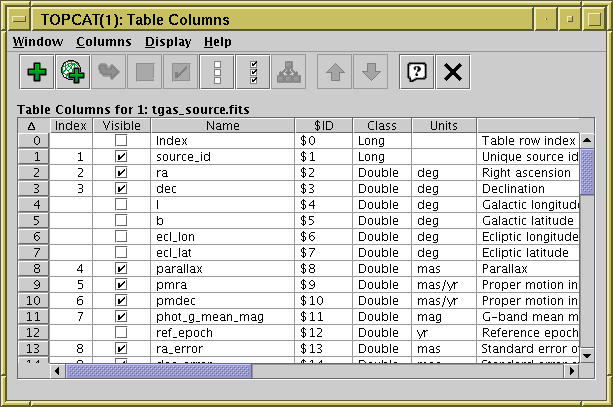
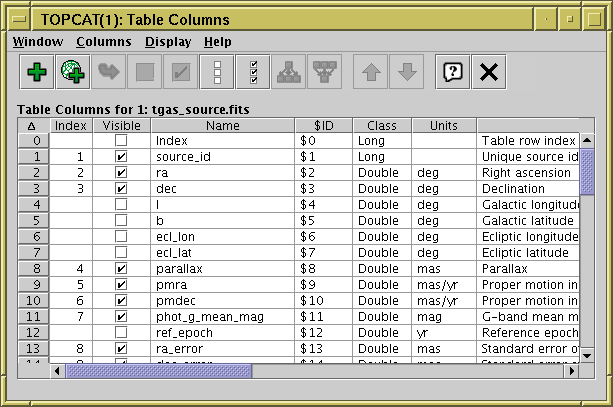
topcat: add collapse columns action to Columns window
New action in ColumnInfoWindow that allows the user to select
multiple scalar-valued columns and turn them into a single
array-valued column.

Changed region(s): [[0.6509, 0.1179, 0.8369, 0.2359], [0.4959, 0.1474, 0.5579, 0.2064], [0.5889, 0.1474, 0.6199, 0.2064]]

diff --git a/topcat/src/main/uk/ac/starlink/topcat/ColumnInfoWindow.java b/topcat/src/main/uk/ac/starlink/topcat/ColumnInfoWindow.java
@@ -7,10 +7,12 @@ import java.awt.Point;
 import java.awt.event.ActionEvent;
 import java.awt.event.KeyEvent;
 import java.awt.event.MouseEvent;
+import java.io.IOException;
 import java.util.ArrayList;
 import java.util.Arrays;
 import java.util.List;
 import java.util.logging.Logger;
+import java.util.stream.Collectors;
 import javax.swing.AbstractAction;
 import javax.swing.Action;
 import javax.swing.DefaultListSelectionModel;
@@ -68,6 +70,7 @@ public class ColumnInfoWindow extends AuxWindow {
     private final Action sortupAct;
     private final Action sortdownAct;
     private final Action explodecolAct;
+    private final Action collapsecolsAct;
     private final ColumnInfo indexColumnInfo;
     private final JTable jtab;
     private final MetaColumnTableModel metaTableModel;
@@ -554,6 +557,11 @@ public class ColumnInfoWindow extends AuxWindow {
                                               ResourceIcon.EXPLODE,
                                               "Replace N-element array column "
                                               + "with N scalar columns" );
+        collapsecolsAct = new ColumnInfoAction( "Collapse Columns to Array",
+                                                ResourceIcon.COLLAPSE,
+                                                "Add new array column "
+                                              + "made from selected "
+                                              + "numeric scalar columns" );
         sortupAct = new SortAction( true );
         sortdownAct = new SortAction( false );
         addcolAct.setEnabled( TopcatUtils.canJel() );
@@ -570,6 +578,7 @@ public class ColumnInfoWindow extends AuxWindow {
         colMenu.add( hideallAct );
         colMenu.add( revealallAct );
         colMenu.add( explodecolAct );
+        colMenu.add( collapsecolsAct );
         colMenu.add( sortupAct );
         colMenu.add( sortdownAct );
         getJMenuBar().add( colMenu );
@@ -597,6 +606,7 @@ public class ColumnInfoWindow extends AuxWindow {
         getToolBar().add( hideallAct );
         getToolBar().add( revealallAct );
         getToolBar().add( explodecolAct );
+        getToolBar().add( collapsecolsAct );
         getToolBar().addSeparator();
         getToolBar().add( sortupAct );
         getToolBar().add( sortdownAct );
@@ -746,6 +756,7 @@ public class ColumnInfoWindow extends AuxWindow {
         int nsel = jtab.getSelectedRowCount();
         boolean hasSelection = nsel > 0;
         boolean hasUniqueSelection = nsel == 1;
+        boolean hasMultiSelection = nsel > 1;
         if ( hasUniqueSelection &&
              toUnsortedIndex( jtab.getSelectedRow() ) == 0 ) {
             hasUniqueSelection = false;
@@ -766,6 +777,7 @@ public class ColumnInfoWindow extends AuxWindow {
         hidecolAct.setEnabled( hasSelection );
         revealcolAct.setEnabled( hasSelection );
         explodecolAct.setEnabled( hasArraySelection );
+        collapsecolsAct.setEnabled( hasMultiSelection );
         sortupAct.setEnabled( hasUniqueSelection );
         sortdownAct.setEnabled( hasUniqueSelection );
         replacecolAct.setEnabled( hasUniqueSelection && TopcatUtils.canJel() );
@@ -815,6 +827,97 @@ public class ColumnInfoWindow extends AuxWindow {
                 }
             }
         }
+    }
+
+    /**
+     * Returns a new array column formed from scalar columns
+     * specified by index.
+     * The output column has a dummy name, so should be renamed before use.
+     *
+     * <p>Currently, the output column is of type <code>double[]</code> and
+     * any non-numeric input values, including values from non-numeric columns,
+     * are represented as NaN.
+     * Because of the problems associated with representing null values,
+     * for now no attempt is made to return array values of different types
+     * based on the input columns (for instance an <code>int[]</code> array).
+     *
+     * @param  icols  array of column model indices
+     * @return   array-valued column, or null if something went wrong
+     */
+    private ColumnData createArrayColumn( int[] icols ) {
+
+        /* Check columns are suitable. */
+        final int nc = icols.length;
+        if ( nc == 0 ) {
+            return null;
+        }
+        List<String> colNames = new ArrayList<>();
+        for ( int ic = 0; ic < nc; ic++ ) {
+            ColumnInfo sinfo = dataModel.getColumnInfo( icols[ ic ] );
+            if ( ! Number.class.isAssignableFrom( sinfo.getContentClass() ) ) {
+                String msg = "Column " + sinfo + " is not numeric";
+                JOptionPane.showMessageDialog( ColumnInfoWindow.this, msg,
+                                               "Collapse Error",
+                                               JOptionPane.ERROR_MESSAGE );
+                return null;
+            }
+            colNames.add( sinfo.getName() );
+        }
+
+        /* Check if we have some metadata items that are exactly the same
+         * for all input columns. */
+        ColumnInfo cinfo0 = dataModel.getColumnInfo( icols[ 0 ] );
+        String unit0 = cinfo0.getUnitString();
+        String ucd0 = cinfo0.getUCD();
+        for ( int ic = 1; ic < nc; ic++ ) {
+            ColumnInfo cinfo1 = dataModel.getColumnInfo( icols[ ic ] );
+            String unit1 = cinfo1.getUnitString();
+            String ucd1 = cinfo1.getUCD();
+            if ( unit0 != null && ! unit0.equals( unit1 ) ) {
+                unit0 = null;
+            }
+            if ( ucd0 != null && ! ucd0.equals( ucd1 ) ) {
+                ucd0 = null;
+            }
+        }
+
+        /* Prepare and return array column. */
+        ColumnInfo info = new ColumnInfo( "dummy", double[].class,
+                                          "array of scalar columns" );
+        info.setShape( new int[] { nc } );
+        StringBuffer dbuf = new StringBuffer()
+                           .append( "Array column from input scalars: " );
+        int maxNames = 20;
+        if ( colNames.size() > maxNames ) {
+            dbuf.append( colNames.stream()
+                                 .limit( maxNames / 2 )
+                                 .collect( Collectors.joining( ", " ) ) )
+                .append( ", ... , " )
+                .append( colNames.get( colNames.size() -1 ) );
+        }
+        else {
+            dbuf.append( colNames.stream()
+                                 .collect( Collectors.joining( ", " ) ) );
+        }
+        info.setDescription( dbuf.toString() );
+        if ( unit0 != null ) {
+            info.setUnitString( unit0 );
+        }
+        if ( ucd0 != null ) {
+            info.setUCD( ucd0 );
+        }
+        return new ColumnData( info ) {
+            public double[] readValue( long irow ) throws IOException {
+                double[] value = new double[ nc ];
+                for ( int ic = 0; ic < nc; ic++ ) {
+                    Object scalar = dataModel.getCell( irow, icols[ ic ] );
+                    value[ ic ] = scalar instanceof Number
+                                ? ((Number) scalar).doubleValue()
+                                : Double.NaN;
+                }
+                return value;
+            }
+        };
     }
 
     /**
@@ -1008,6 +1111,33 @@ public class ColumnInfoWindow extends AuxWindow {
                                                yesOpt ) == 0 ) {
                             tcModel.explodeColumn( tcol );
                         }
+                    }
+                }
+            }
+
+            /* New array column from selected scalar columns. */
+            else if ( this == collapsecolsAct ) {
+                int nsel = jtab.getSelectedRowCount();
+                if ( nsel > 1 ) {
+                    int[] isels = jtab.getSelectedRows();
+                    int nscalar = isels.length;
+                    int[] icScalars = new int[ nscalar ];
+                    for ( int is = 0; is < nscalar; is++ ) {
+                        icScalars[ is ] =
+                            getModelIndexFromRow(
+                                toUnsortedIndex( isels[ is ] ) );
+                    }
+                    ColumnData arrayCol = createArrayColumn( icScalars );
+                    if ( arrayCol != null ) {
+                        String msg = "Column name for collapse of " + nscalar
+                                   + " columns";
+                        String cname =
+                            JOptionPane
+                           .showInputDialog( parent, msg,
+                                             "Create Collapsed Column",
+                                             JOptionPane.QUESTION_MESSAGE );
+                        arrayCol.getColumnInfo().setName( cname );
+                        tcModel.appendColumn( arrayCol );
                     }
                 }
             }

diff --git a/topcat/src/main/uk/ac/starlink/topcat/ResourceIcon.java b/topcat/src/main/uk/ac/starlink/topcat/ResourceIcon.java
@@ -198,6 +198,7 @@ public class ResourceIcon implements Icon {
         MOVE_DOWN = makeIcon( "Down2.png" ),
         EQUATION = makeIcon( "xeq.png" ),
         EXPLODE = makeIcon( "explode.png" ),
+        COLLAPSE = makeIcon( "collapse.png" ),
         ADDSKY = makeIcon( "addsky1.png" ),
         COLOR_LOG = makeIcon( "logred2.png" ),
         XLOG = makeIcon( "xlog.png" ),
